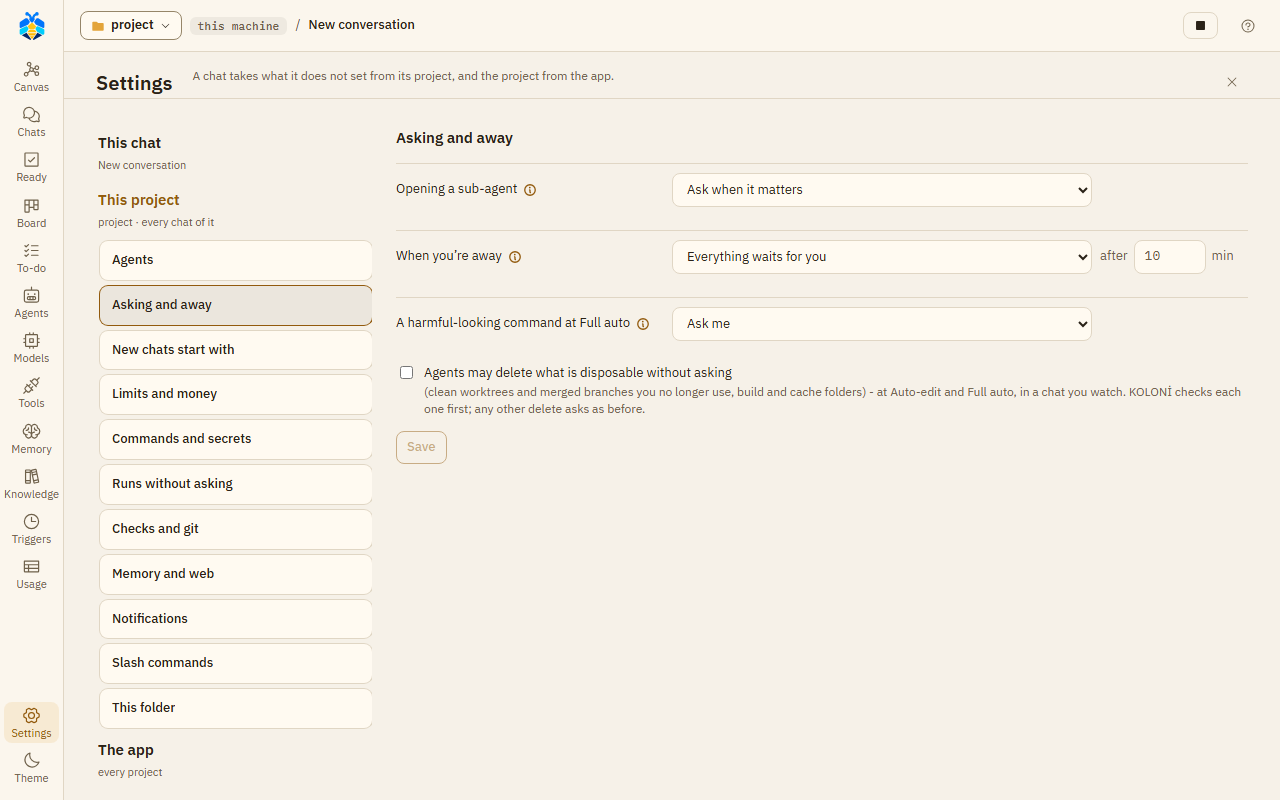
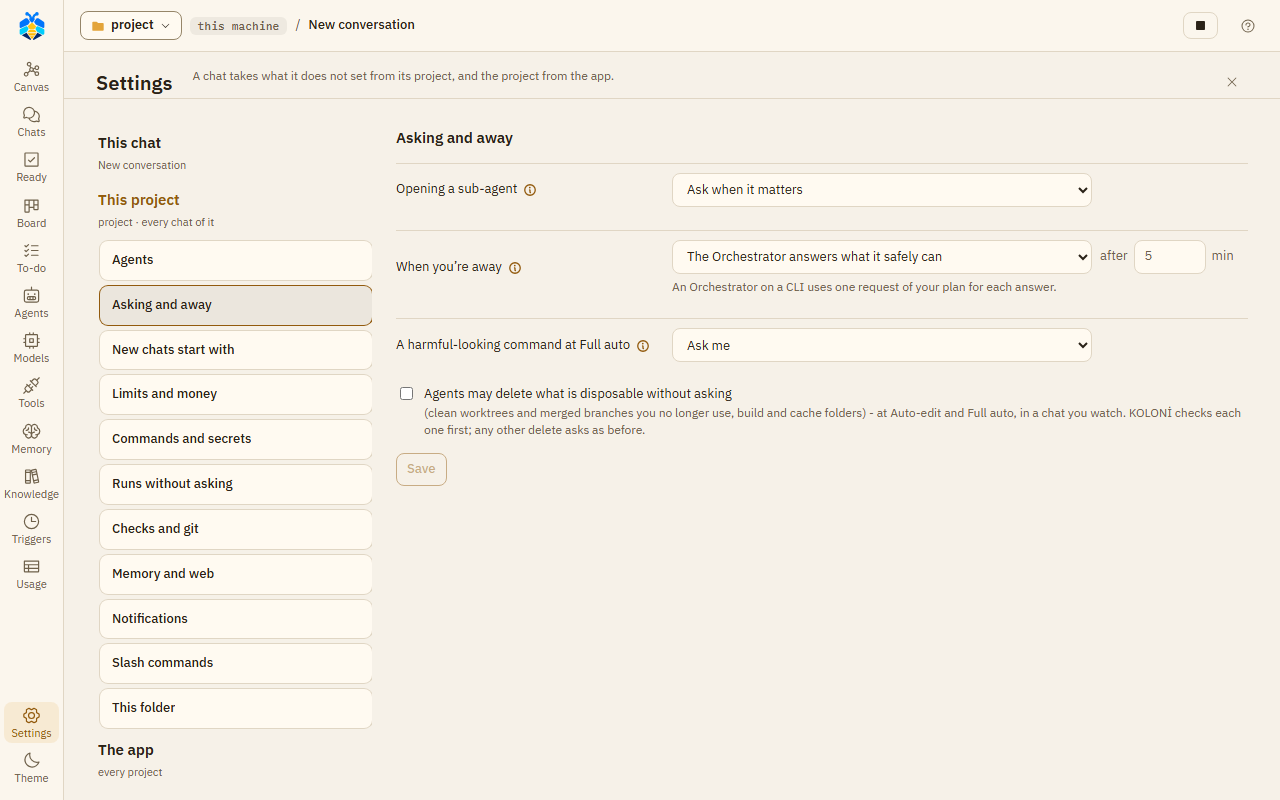
docs: the review's round - runner diagram, README's room picture, Settings at the new default
- runner: its "Also" line names Judge (judge_mixin, Check what I said
  first); footer 22 Nov.
- README: the room picture (pages/assets/ways/room.png, 7 Nov: the old
  floating chat, the Ask dropdown, the Plan first toggle; no spec makes
  it) gives way to the Away panel; Copilot's row no longer reads as if
  Native needed 1.0.114.
- settings-project.png shows When you're away as a new project has it
  (the Orchestrator, after 5 minutes; the harness's own is "waits", 10),
  and stands under Asking and away on the Settings page.
- The CHANGELOG's guide line names the runner diagram.

Changed region(s): [[0.3125, 0.3125, 0.9688, 0.5938], [0.3125, 0.3125, 0.4062, 0.3438]]

diff --git a/frontend/e2e/guide-shots.spec.ts b/frontend/e2e/guide-shots.spec.ts
@@ -127,6 +127,10 @@ test('the Models, Settings › This project and Knowledge pages', async ({ page 
   await rail(page, 'Models').click()
   await expect(page.getByRole('heading', { name: 'Models' })).toBeVisible()
   await picture(page, 'models')
+  // (As a new project has it, 0.1.5: the harness's own is "everything waits", 10 minutes.)
+  await setProject(page, { when_away: 'lead', away_minutes: 5 })
+  await page.reload()
+  await page.getByLabel('Message').waitFor()
   await page.getByRole('navigation', { name: 'Main' }).getByRole('button', { name: 'Settings' }).click()
   const settings = page.getByRole('form', { name: 'Project settings' })
   // (At Asking and away: when you're away, Full auto's check of your words, disposable deletes - 0.1.5.)

diff --git a/CHANGELOG.md b/CHANGELOG.md
@@ -61,7 +61,7 @@ How to write an entry (every release looks the same):
 - **Workspace**: a branch's merge waits for your commit where the agent changed what you had not committed, at Full auto too - no agent puts your lines together - the card names another agent's Take in that is in your folder and not committed yet, and work that changes a file you had not committed when the branch began waits for your **Merge** ([docs](docs/use/workspace.md#branches)).
 - **Workspace**: where your folder had more new or changed files than a copy takes, your git is older than 2.40, or git could not take your folder as it is (a file another program holds open, a path too long), a branch starts from your last commit and its card says so in one line ([docs](docs/use/workspace.md#branches)).
 - **Agents**: the Orchestrator is told that sub-agents it opens together work at the same time, to give each its own files or folders, and that `koloni/…` branches and the worktrees in KOLONİ's copies folder are not its to delete, rename or switch to ([docs](docs/use/workspace.md#branches)).
-- **Docs**: the guide says what 0.1.2 to 0.1.5 changed where it was still missing or wrong: Check what I said first at Full auto in full (what it reads, a line that allows or forbids, Decided for you, what it costs, where it ends), ☾ Away on the chat's status line and the job's level, the Orchestrator answering in a To-do task's chat after the project's minutes, the folder's rules that differ on the Memory page, Copilot 1.0.114 and its routing in the CLIs table and Every setting, the slow model's card in Ready, disposable deletes in the form each shell reads, upgrade notes for each version, and the README's box, models and security; the main screen, agent window, Ready, Take in, team and Settings pictures and the four videos are taken anew (no Plan first chip, ☾ Away on the status line, the window icon on each box), Work while you're away has pictures of the Away panel and of the summary when you are back, and the permissions, working copy, CLI and Away diagrams are drawn anew ([docs](docs/reference/upgrade-notes.md)).
+- **Docs**: the guide says what 0.1.2 to 0.1.5 changed where it was still missing or wrong: Check what I said first at Full auto in full (what it reads, a line that allows or forbids, Decided for you, what it costs, where it ends), ☾ Away on the chat's status line and the job's level, the Orchestrator answering in a To-do task's chat after the project's minutes, the folder's rules that differ on the Memory page, Copilot 1.0.114 and its routing in the CLIs table and Every setting, the slow model's card in Ready, disposable deletes in the form each shell reads, upgrade notes for each version, and the README's box, models and security; the main screen, agent window, Ready, Take in, team and Settings pictures and the four videos are taken anew (no Plan first chip, ☾ Away on the status line, the window icon on each box), Work while you're away has pictures of the Away panel and of the summary when you are back, and the permissions, working copy, CLI, Away and agent runner diagrams are drawn anew ([docs](docs/reference/upgrade-notes.md)).
 
 ### Fixed
 

diff --git a/docs/changelog.md b/docs/changelog.md
@@ -46,7 +46,7 @@ All notable changes to KOLONİ are listed here, newest first. English only.
 - **Workspace**: a branch's merge waits for your commit where the agent changed what you had not committed, at Full auto too - no agent puts your lines together - the card names another agent's Take in that is in your folder and not committed yet, and work that changes a file you had not committed when the branch began waits for your **Merge** ([docs](use/workspace.md#branches)).
 - **Workspace**: where your folder had more new or changed files than a copy takes, your git is older than 2.40, or git could not take your folder as it is (a file another program holds open, a path too long), a branch starts from your last commit and its card says so in one line ([docs](use/workspace.md#branches)).
 - **Agents**: the Orchestrator is told that sub-agents it opens together work at the same time, to give each its own files or folders, and that `koloni/…` branches and the worktrees in KOLONİ's copies folder are not its to delete, rename or switch to ([docs](use/workspace.md#branches)).
-- **Docs**: the guide says what 0.1.2 to 0.1.5 changed where it was still missing or wrong: Check what I said first at Full auto in full (what it reads, a line that allows or forbids, Decided for you, what it costs, where it ends), ☾ Away on the chat's status line and the job's level, the Orchestrator answering in a To-do task's chat after the project's minutes, the folder's rules that differ on the Memory page, Copilot 1.0.114 and its routing in the CLIs table and Every setting, the slow model's card in Ready, disposable deletes in the form each shell reads, upgrade notes for each version, and the README's box, models and security; the main screen, agent window, Ready, Take in, team and Settings pictures and the four videos are taken anew (no Plan first chip, ☾ Away on the status line, the window icon on each box), Work while you're away has pictures of the Away panel and of the summary when you are back, and the permissions, working copy, CLI and Away diagrams are drawn anew ([docs](reference/upgrade-notes.md)).
+- **Docs**: the guide says what 0.1.2 to 0.1.5 changed where it was still missing or wrong: Check what I said first at Full auto in full (what it reads, a line that allows or forbids, Decided for you, what it costs, where it ends), ☾ Away on the chat's status line and the job's level, the Orchestrator answering in a To-do task's chat after the project's minutes, the folder's rules that differ on the Memory page, Copilot 1.0.114 and its routing in the CLIs table and Every setting, the slow model's card in Ready, disposable deletes in the form each shell reads, upgrade notes for each version, and the README's box, models and security; the main screen, agent window, Ready, Take in, team and Settings pictures and the four videos are taken anew (no Plan first chip, ☾ Away on the status line, the window icon on each box), Work while you're away has pictures of the Away panel and of the summary when you are back, and the permissions, working copy, CLI, Away and agent runner diagrams are drawn anew ([docs](reference/upgrade-notes.md)).
 
 ### Fixed
 

diff --git a/README.md b/README.md
@@ -39,7 +39,7 @@ your code to its own service, as it always did. KOLONİ is an alpha: expect roug
 <td width="50%"><img src="docs/images/take-in.png" alt="The Ready for you panel asks: take the work into the project?"><br><sub><b>The card.</b> A team's work stays in its copy until you say Take in, or Ask for changes in your own words.</sub></td>
 </tr>
 <tr>
-<td width="50%"><img src="pages/assets/ways/room.png" alt="A room where a Coder and a Reviewer look at the greeting together, with their posts and reports"><br><sub><b>A room.</b> Two to six agents on one goal, in rounds, with a token budget and a clock.</sub></td>
+<td width="50%"><img src="docs/images/away-panel.png" alt="The Away panel over the message box: two To-do tasks ticked, what the Orchestrator decides for you and what always waits, a stop time and a spend limit"><br><sub><b>☾ Away.</b> Your To-do tasks worked through one at a time, each in its own copy, until you are back.</sub></td>
 <td width="50%"><img src="docs/images/usage.png" alt="The Usage page: messages, tokens sent and written, cost, by provider and model"><br><sub><b>Usage.</b> Tokens, AI credits and plan windows per run, as the CLIs reported them; nothing invented.</sub></td>
 </tr>
 </table>
@@ -95,7 +95,7 @@ your code to its own service, as it always did. KOLONİ is an alpha: expect roug
 |---|---|---|
 | Claude Code | session (KOLONİ's tools over MCP) or native | `claude auth login` |
 | Codex | session (KOLONİ's tools over MCP), step, or native | `codex login` |
-| GitHub Copilot CLI | session or native (1.0.114 on, through KOLONİ's hook); `auto` and `fusion` pick the model, with a routing | `gh auth login` |
+| GitHub Copilot CLI | session or native (asks before its tools; from 1.0.114 on through KOLONİ's own hook); `auto` and `fusion` pick the model, with a routing | `gh auth login` |
 | agy | reads (its default) or native | agy's own sign-in |
 | Qoder | session | Qoder's own sign-in |
 | llama.cpp `llama-server` | OpenAI-compatible, started with `--jinja`; the Server tab starts and stops it | — |

diff --git a/docs/settings.md b/docs/settings.md
@@ -59,10 +59,6 @@ defaults: ask when it matters, 2 at the same time, 2 levels, 6 per request.
 
 The sections are listed on the left, in this order.
 
-![Settings, This project: the sections on the left, and Asking and away on the right with Opening a sub-agent, When you're away, A harmful-looking command at Full auto and Agents may delete what is disposable without asking](images/settings-project.png)
-
-*Settings › This project, at **Asking and away**.*
-
 ### Agents
 
 "Every chat of this project follows these, the ones made before too."
@@ -75,6 +71,10 @@ The sections are listed on the left, in this order.
 | **Suggest follow-up tasks after each turn** | On by default. After a turn that did something, the Assistant PO proposes at most three [follow-up tasks](automation/todo.md#follow-up-tasks) for the To-do list; they wait for your **Add**, **Edit** or **Reject**. One small model request per such turn, made once the turn is over, and at Full auto in a turn you started one more for the Orchestrator's decision. **Follow-up tasks from** picks the tier: **Fast tier** (the default), **Balanced tier** or **Strongest tier**. |
 
 ### Asking and away
+
+![Settings, This project: the sections on the left, and Asking and away on the right with Opening a sub-agent, When you're away, A harmful-looking command at Full auto and Agents may delete what is disposable without asking](images/settings-project.png)
+
+*Settings › This project, at **Asking and away**.*
 
 | Setting | What it does |
 |---|---|
